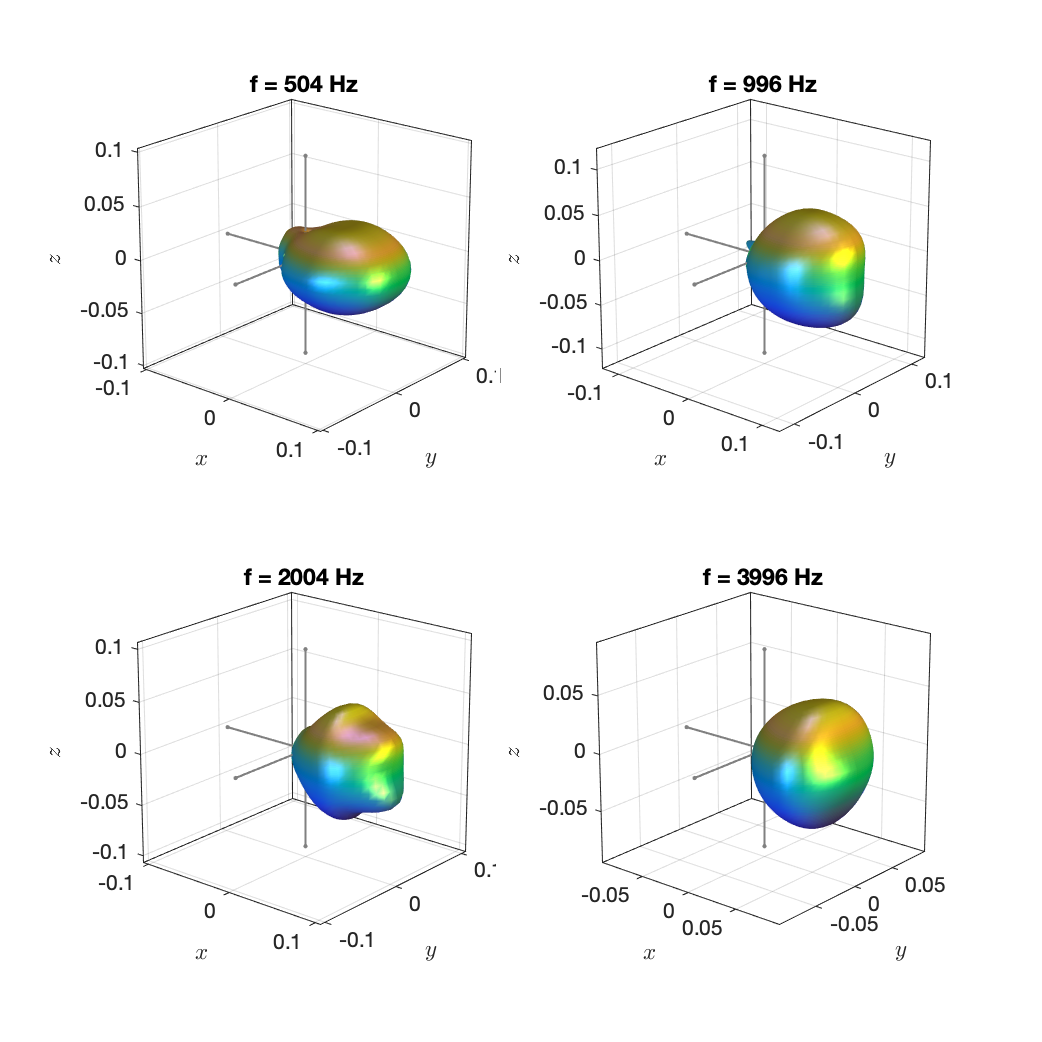
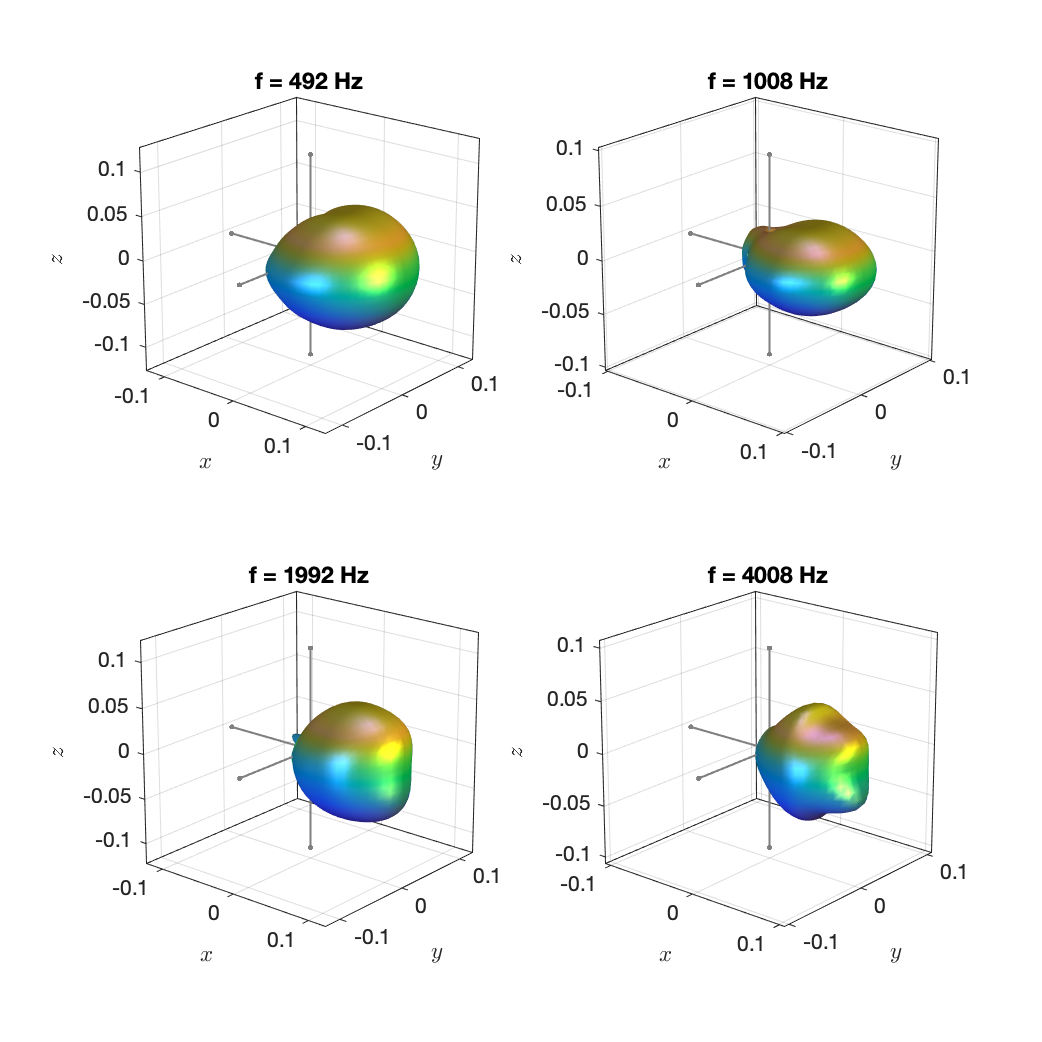
Fix frequency selection in balloon plots

diff --git a/compute_spherical_harmonic_representation.m b/compute_spherical_harmonic_representation.m
@@ -17,22 +17,44 @@ clear;
 
 addpath('_tools');
 
-sph_definition = 'real_w_cs'; % see file _tools/sphharm.m for the options
+sph_definition = 'real'; % see file _tools/sphharm.m for the options
 dft_definition = 'matlab'; % see file _tools/dft.m for the options
 
 % -- musical instruments --
 
 %dataset_file_name = 'musical_instruments/oboe_modern_TUB_RWTH/Oboe_modern_et_ff_c5.mat';
+%dataset_file_name = 'musical_instruments/trumpet_modern_TUB_RWTH/Trumpet_modern_et_ff_a4.mat';
+%dataset_file_name = 'musical_instruments/violin_modern_TUB_RWTH/Violin_modern_et_ff_g4.mat';
+%dataset_file_name = 'musical_instruments/Acoustic_guitar_modern_TUB_RWTH/Acoustic_guitar_modern_et_ff_a3.mat';
+%dataset_file_name = 'musical_instruments/Clarinet_modern_TUB_RWTH/Clarinet_modern_et_ff_a4.mat';
+%dataset_file_name = 'musical_instruments/Bassoon_modern_TUB_RWTH/Bassoon_modern_et_ff_a4.mat';
+%dataset_file_name = 'musical_instruments/double_bass_AAL/double_bass_a2_f.mat';
+%dataset_file_name = 'musical_instruments/french_horn_AAL/french_horn_a4_f.mat';
+%dataset_file_name = 'musical_instruments/tamtam_AAL/tamtam_ff.mat';
+%dataset_file_name = 'musical_instruments/trumpet_AAL/trumpet_a4_f.mat';
+%dataset_file_name = 'musical_instruments/violin_AAL/violin_a4_f.mat';
+%dataset_file_name = 'voice/singing_voice_TUB_RWTH/Soprano_m_et_ff_a4.mat';
 
 % -- loudspeakers --
 
 %dataset_file_name = 'loudspeakers/loudspeaker_cube_DirPat/loudspeaker_cube_driver_1.mat';
-dataset_file_name = 'loudspeakers/loudspeakers_3D3A/Genelec_8351A.mat';
+%dataset_file_name = 'loudspeakers/loudspeaker_cube_DirPat/loudspeaker_cube_driver_2.mat';
+%dataset_file_name = 'loudspeakers/loudspeaker_cube_DirPat/loudspeaker_cube_driver_3.mat';
+dataset_file_name = 'loudspeakers/loudspeaker_cube_DirPat/loudspeaker_cube_driver_4.mat';
+%dataset_file_name = 'loudspeakers/loudspeakers_3D3A/Genelec_8351A.mat';
 
 % -- voice --
 
-%dataset_file_name = 'voice/singing_voice_DirPat/singing_voice_a_long_sweep_reg.mat';
+%dataset_file_name = 'voice/singing_voice_USYD_2011/singer_1.mat';
 
+%dataset_file_name = 'voice/singing_voice_DirPat/singing_voice_a_closed_sweep_non-reg.mat';
+%dataset_file_name = 'voice/singing_voice_DirPat/singing_voice_a_closed_sweep_reg.mat';
+%dataset_file_name = 'voice/singing_voice_DirPat/singing_voice_a_long_sweep_non-reg.mat';
+%dataset_file_name = 'voice/singing_voice_DirPat/singing_voice_a_long_sweep_reg.mat';
+%dataset_file_name = 'voice/singing_voice_DirPat/singing_voice_a_open_sweep_non-reg.mat';
+%dataset_file_name = 'voice/singing_voice_DirPat/singing_voice_a_open_sweep_reg.mat';
+%dataset_file_name = 'voice/singing_voice_DirPat/singing_voice_a_wide_sweep_non-reg.mat';
+%dataset_file_name = 'voice/singing_voice_DirPat/singing_voice_a_wide_sweep_reg.mat';
 
 % -------------------------------------------------------------------------
 

diff --git a/_tools/sphharm.m b/_tools/sphharm.m
@@ -52,42 +52,17 @@ if (strcmp(type, 'complex'))
     
     Ynm = (-1).^m .* sqrt(factor_1 .* factor_2_abs) .* Lnm .* exp(1i .* m .* alpha);
 
-% Complex without Condon-Shortley phase; same as scipy
+% Complex without Condon-Shortley phase cancelation; same as scipy
 elseif (strcmp(type, 'complex_wo_cs'))
     
     Lnm = asslegendre(n, m, cos(beta));
     
     Ynm = sqrt(factor_1 .* factor_2) .* Lnm .* exp(1i .* m .* alpha);
-
-% Real valued spherical harmonics without Condon-Shortley phase
-elseif(strcmp(type, 'real_wo_cs'))
-        
-    if (m ~= 0)
-        factor_1 = 2 * factor_1;
-    end
     
-    if (m < 0)
-        Ynm = sqrt(factor_1 .* factor_2_abs) .* Lnm .* sin(m .* alpha);
-    else % m >= 0
-        Ynm = sqrt(factor_1 .* factor_2_abs) .* Lnm .* cos(m .* alpha);
-    end
-    
-% Real valued spherical harmonics with Condon-Shortley phase; used, for example, by Zotter
-elseif(strcmp(type, 'real_w_cs')) 
-        
-    if (m ~= 0)
-        factor_1 = 2 * factor_1;
-    end
-    
-    if (m < 0)
-        Ynm = (-1).^m .* sqrt(factor_1 .* factor_2_abs) .* Lnm .* sin(m .* alpha);
-    else % m >= 0
-        Ynm = (-1).^m .* sqrt(factor_1 .* factor_2_abs) .* Lnm .* cos(m .* alpha);
-    end
-    
-% Real valued spherical harmonics with Condon-Shortley phase (and with |m| 
+% Real valued spherical harmonics with Condon-Shortley phase cancelation (and with |m| 
 % in the sine!); as defined on https://en.wikipedia.org/wiki/Spherical_harmonics
-elseif(strcmp(type, 'wikipedia'))
+% this is the one that is used in Ambisonics
+elseif(strcmp(type, 'real'))
         
     if (m ~= 0)
         factor_1 = 2 * factor_1;

diff --git a/_tools/balloon_plot.m b/_tools/balloon_plot.m
@@ -8,11 +8,11 @@ if (nargin < 5)
     f_to_plot    = [500 1000 2000 4000]; % in Hz
 end
 
-f_to_plot    = f_to_plot(f_to_plot < fs/2); % sort out
-bins_to_plot = round(f_to_plot/(fs/2) * size(coefficients, 1));
+f_to_plot    = f_to_plot(f_to_plot < fs/2); % avoid frequencies that we don't have
+bins_to_plot = round(f_to_plot/fs * size(coefficients, 1));
 
 % update values
-f_to_plot = bins_to_plot/size(coefficients, 1) * fs/2;
+f_to_plot = bins_to_plot/size(coefficients, 1) * fs;
 
 % remove all unused data
 coefficients = coefficients(bins_to_plot, :);
